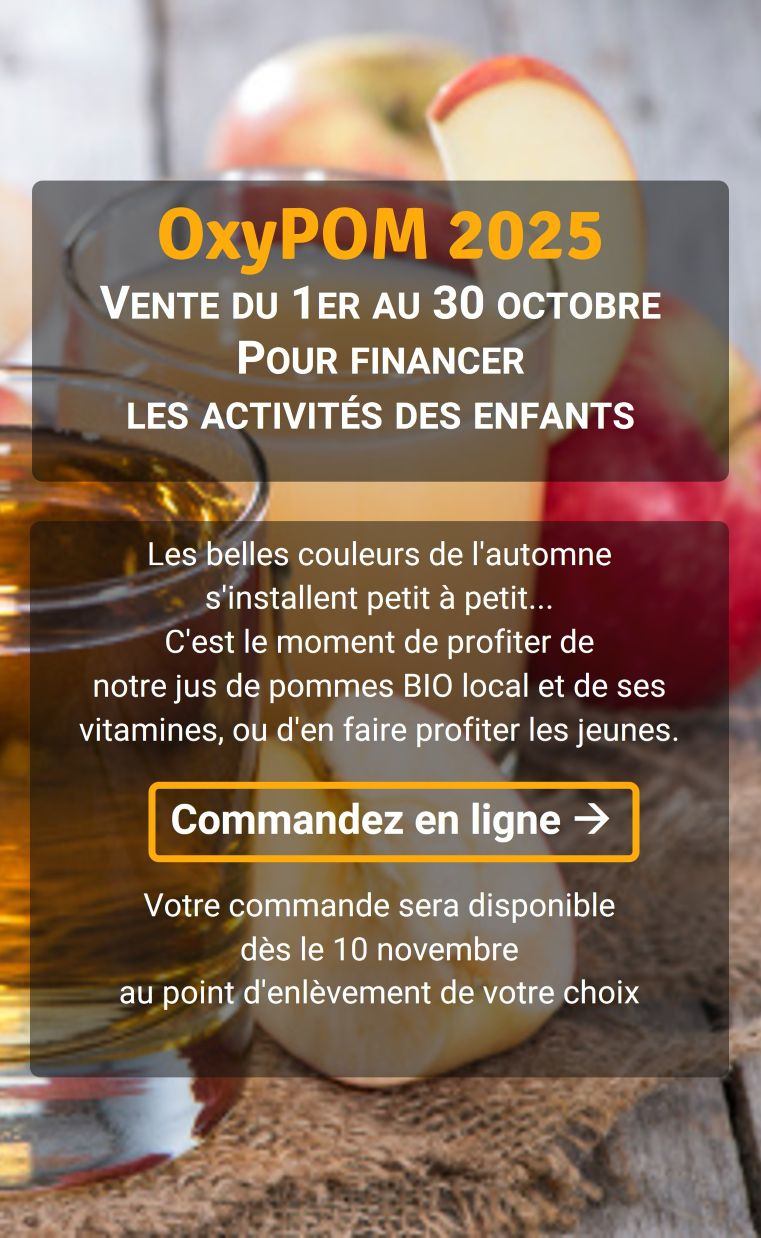
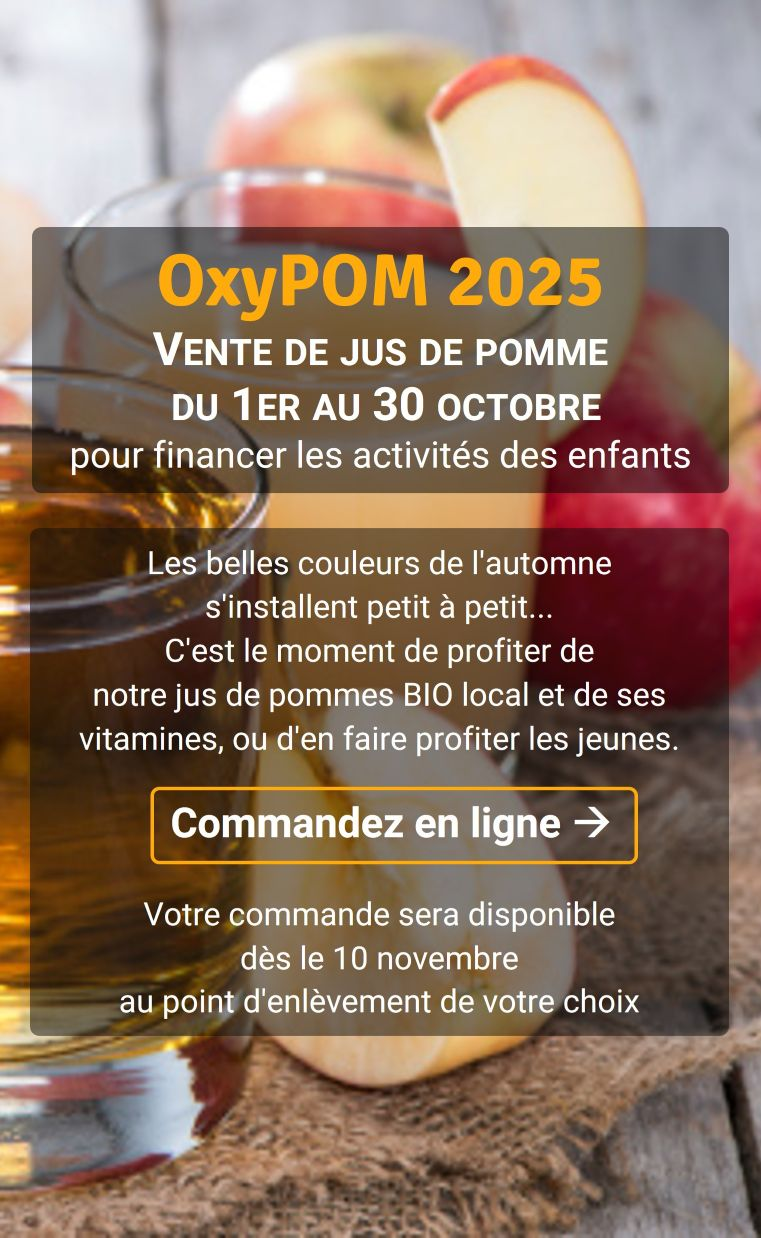
full automate popup

Changed region(s): [[0.0302, 0.1228, 0.9671, 0.8901]]

diff --git a/layouts/partials/popup-image.html b/layouts/partials/popup-image.html
@@ -1,99 +1,45 @@
-{{/*
-=== INSTRUCTIONS POUR UTILISER CE POPUP IMAGE ===
-
-1. ACTIVATION :
-Pour activer ce popup, ajouter la ligne suivante dans index.html juste après {{ define "main" }} :
-{{ partial "popup-image.html" . }}
-
-2. IMAGES REQUISES :
-Les images doivent être placées dans :
-- assets/images/insta.png (version desktop)
-- assets/images/insta-mobile.png (version mobile)
-
-3. CONFIGURATION BACKGROUND :
-Pour changer le fond du popup, modifier la classe dans popup-content :
-
-FONDS DISPONIBLES :
-- popup-bg-auto     → Blanc (défaut)
-- popup-bg-dark     → Sombre (#1a1a1a)
-- popup-bg-transparent → Transparent
-- popup-bg-gradient → Dégradé coloré
-- popup-bg-theme    → Suit le thème du site
-
-EXEMPLE D'USAGE :
-- Image transparente + mode sombre : utiliser "popup-bg-dark"
-- Image transparente + mode clair : utiliser "popup-bg-auto" 
-- Image avec fond intégré : utiliser "popup-bg-transparent"
-- Pour des actions spéciales : utiliser "popup-bg-gradient"
-
-Pour changer : remplacer "popup-bg-auto" par la classe souhaitée dans la div popup-content
-*/}}
-
 <!-- layouts/partials/popup-image.html -->
+{{ if .Params.popup.enable }}
+{{ $desktop := .Params.popup.desktop | default "images/insta.png" }}
+{{ $mobile  := .Params.popup.mobile  | default "images/insta-mobile.png" }}
+{{ $link    := .Params.popup.link    | default "https://www.instagram.com/oxybulle-asbl/" }}
+
 <div id="popup-overlay" class="fixed inset-0 bg-black/50 z-50 flex items-center justify-center p-4">
-  <div id="popup-content" class="relative max-w-3xl w-full max-h-[90vh] -translate-y-6 rounded-2xl overflow-hidden">
-<button id="close-popup" 
-        class="absolute top-4 left-4 z-30 bg-black/60 text-white rounded-full p-2 hover:bg-black/80 transition-all">
-  <svg xmlns="http://www.w3.org/2000/svg" class="h-6 w-6" fill="none" viewBox="0 0 24 24" stroke="currentColor">
-    <path stroke-linecap="round" stroke-linejoin="round" stroke-width="2" d="M6 18L18 6M6 6l12 12" />
-  </svg>
-</button>
+  <div id="popup-content" class="relative max-w-3xl w-full max-h-[90vh] -translate-y-5 rounded-lg overflow-hidden">
+    
+    <!-- bouton X -->
+    <button id="close-popup" class="absolute top-4 right-4 z-30 bg-black/60 text-white rounded-full p-2 hover:bg-black/80 transition-all">
+      <svg xmlns="http://www.w3.org/2000/svg" class="h-6 w-6" fill="none" viewBox="0 0 24 24" stroke="currentColor">
+        <path stroke-linecap="round" stroke-linejoin="round" stroke-width="2" d="M6 18L18 6M6 6l12 12" />
+      </svg>
+    </button>
 
     <!-- Desktop -->
-    {{ $desktopImage := resources.Get "images/oxypom.jpg" }}
-    {{ with $desktopImage }}
-      <a href="https://www.uningoapp.com/np_profile?org=Oxybulle&lang=fr&tab=shop-tab&src=NLOP2025" target="_blank">
-        <img src="{{ .Permalink }}" alt="Cliquez pour commander" class="w-full h-auto hidden sm:block object-cover">
+    {{ with resources.Get $desktop }}
+      <a href="{{ $link }}" target="_blank">
+        <img src="{{ .Permalink }}" alt="Popup desktop" class="w-full h-auto hidden sm:block object-cover">
       </a>
     {{ end }}
 
     <!-- Mobile -->
-    {{ $mobileImage := resources.Get "images/oxypom-mobile.jpg" }}
-    {{ with $mobileImage }}
-      <a href="https://www.uningoapp.com/np_profile?org=Oxybulle&lang=fr&tab=shop-tab&src=NLOP2025" target="_blank">
-        <img src="{{ .Permalink }}" alt="Cliquez pour commander" class="w-full h-auto block sm:hidden object-cover">
+    {{ with resources.Get $mobile }}
+      <a href="{{ $link }}" target="_blank">
+        <img src="{{ .Permalink }}" alt="Popup mobile" class="w-full h-auto block sm:hidden object-cover">
       </a>
     {{ end }}
   </div>
 </div>
-
-
-<style>
-  /* fallback CSS pour forcer le border-radius s'il y a des overrides */
-  .popup-image-wrap {
-    border-radius: 1rem;               /* same as rounded-2xl / adjust if needed */
-    overflow: hidden;                  /* clip the image */
-  }
-
-  /* s'assure que l'image hérite bien du radius (plus spécifique) */
-  .popup-image-wrap img {
-    display: block;
-    width: 100%;
-    height: auto;
-    border-radius: inherit !important;
-    -webkit-border-radius: inherit !important;
-  }
-
-  /* animation optionnelle pour l'ouverture (supprime si pas voulu) */
-  #popup-overlay { transition: opacity .25s ease, transform .25s ease; }
-  #popup-content { transition: transform .25s ease, opacity .25s ease; }
-</style>
 
 <script>
   document.addEventListener('DOMContentLoaded', function() {
     const popup = document.getElementById('popup-overlay');
     const closeBtn = document.getElementById('close-popup');
 
-    // affiche au chargement
+    // affiche le popup au chargement
     popup.classList.remove('hidden');
 
     // fermeture par X
-    closeBtn.addEventListener('click', function() {
-      popup.classList.add('hidden');
-    });
+    closeBtn.addEventListener('click', () => popup.classList.add('hidden'));
   });
 </script>
-
-
-
-
+{{ end }}

diff --git a/content/french/blog/post-46.md b/content/french/blog/post-46.md
@@ -1,9 +1,9 @@
 ---
-title: "OxyPOM : "
+title: "OxyPOM : Jus bio à commander"
 date: 2025-10-01T00:00:00+01:00
 categories: 
   - "action"
-external_link: "http://eepurl.com/jnRrFY"
+external_link: "https://www.uningoapp.com/np_profile?org=Oxybulle&lang=fr&tab=shop-tab&src=NLOP2025"
 draft: false
 ---
-L'automne et ses belles couleurs s'installe petit à petit... C'est le moment de profiter d'un bon jus de pommes ou d'en faire profiter les jeunes
+Les belles couleurs de l'automne s'installent petit à petit. C'est le moment de profiter de notre jus de pommes BIO local et de ses vitamines, ou d'en faire profiter les jeunes...

diff --git a/content/french/_index.md b/content/french/_index.md
@@ -1,4 +1,10 @@
 ---
+# Popup image
+popup:
+  enable: true
+  desktop: "/images/oxypom.jpg"
+  mobile: "/images/oxypom-mobile.jpg"
+  link: "https://www.uningoapp.com/np_profile?org=Oxybulle&lang=fr&tab=shop-tab&src=NLOP2025"
 # Banner
 banner:
   title: "Offrir une bulle d'air<br>à des enfants et des ados"
